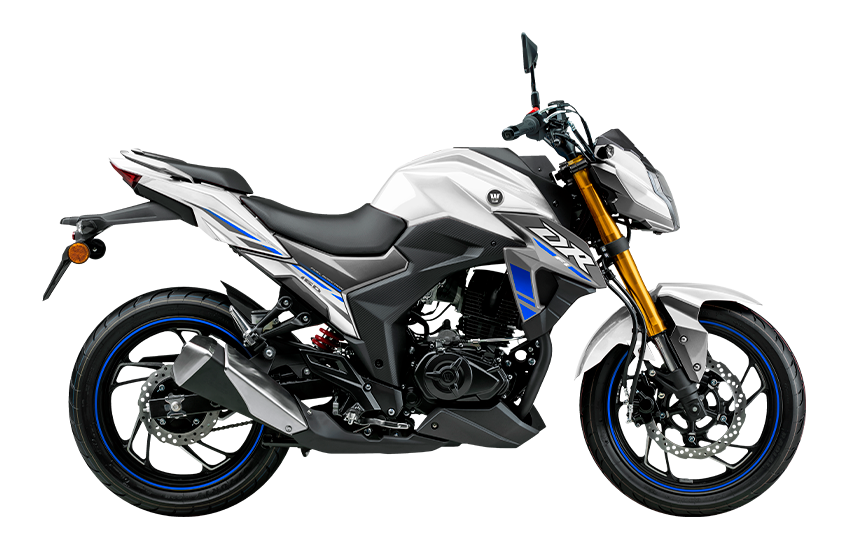
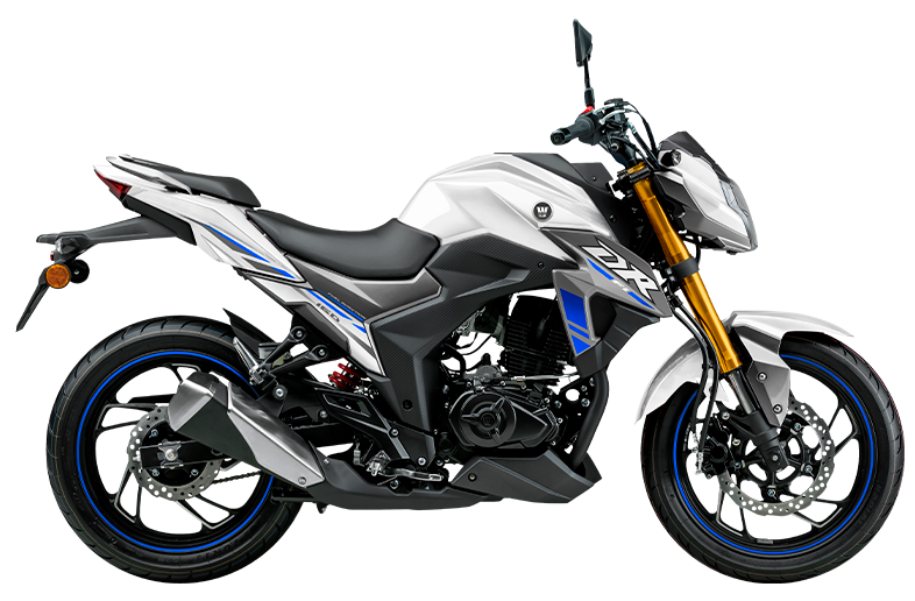
corrigindo proporção das imagens e adicionando efeito no texto

diff --git a/src/components/MainHeroCarrossel/MainHeroCarrossel.jsx b/src/components/MainHeroCarrossel/MainHeroCarrossel.jsx
@@ -11,14 +11,12 @@ export default function MainHeroCarrossel() {
     const infosMotosCarrossel = [
        {
             url: imgFazer150,
-            widthImg: '720px',
             nomeMoto: 'Fazer 150',
             corTexto: '#5e5e5e', 
             bgColor: 'radial-gradient(circle, rgba(58, 58, 58, 1) 0%, rgb(0, 0, 0) 100%)'
         },
         {
             url: imgNs160,
-            widthImg: '690px',
             nomeMoto: 'BAJAJ NS 160',
             corTexto: '#9e2427', 
             bgColor: 'radial-gradient(circle, rgb(98, 26, 27) 0%, rgb(0, 0, 0) 100%)'
@@ -26,14 +24,12 @@ export default function MainHeroCarrossel() {
         {
             url: imgCg160,
             nomeMoto: 'CG 160 TITAN',
-            widthImg: '900px',
             corTexto: '#dc6308', 
             bgColor: 'radial-gradient(circle, rgb(113, 58, 23) 0%, rgb(0, 0, 0) 100%)'
         },
         {
             url: imgDr160s,
             nomeMoto: 'Dr 160s haojue',
-            widthImg: '750px',
             corTexto: '#b0b0b0', 
             bgColor: 'radial-gradient(circle, rgb(108, 108, 108) 0%, rgba(0, 0, 0, 1) 100%)'
         }
@@ -81,12 +77,13 @@ export default function MainHeroCarrossel() {
                 className={`${styles.textoCarrossel} ${styles[`animacaoTexto-${animacao}-${direcao}`]}`}>
                 {infosMotosCarrossel[indexAtual].nomeMoto}
             </p>
-            <img
+            <a href="#">
+                <img
                 src={infosMotosCarrossel[indexAtual].url}
-                style={{ width: infosMotosCarrossel[indexAtual].widthImg }}
                 className={`${styles.imagemMotoCarrossel} ${styles[`${animacao}-${direcao}`]}`}
                 alt="foto da moto"
             />
+            </a>
             <PosicaoItensCarrossel
                 passarSlide={nextSlide}
                 voltarSlide={prevSlide}

diff --git a/src/components/MainHeroCarrossel/MainHeroCarrossel.module.scss b/src/components/MainHeroCarrossel/MainHeroCarrossel.module.scss
@@ -28,11 +28,16 @@
         text-align: center;
         max-width: 95%;
         margin: 0 auto;
-        -webkit-box-reflect: below .3em linear-gradient(to bottom, transparent, rgba(255,255,255,0.2));
+        -webkit-box-reflect: below .3em linear-gradient(to bottom, transparent, rgba(255, 255, 255, 0.082));
+    }
+
+    a {
+        text-align: center;
     }
 
     img {
-        max-width: 90%;
+        width: 90%;
+        max-width: 600px;
         transform: rotate(2deg) translateY(-20px);
         margin-bottom: 2em;
         filter: drop-shadow(0 0 10px rgba(0, 0, 0, 0.575));
@@ -130,45 +135,19 @@
 
 
 
-@media screen and (max-width: 1700px) {
-    .articleMainHeroCarrossel {
-        p {
-            font-size: 11em;
-        }
-    }
-}
-@media screen and (max-width: 1450px) {
-    .articleMainHeroCarrossel {
-        p {
-            font-size: 10em;
-        }
-    }
-}
+// media query 
+
 @media screen and (max-width: 1366px) {
-    .articleMainHeroCarrossel {
-        p {
-            font-size: 9em;
-        }
+  .articleMainHeroCarrossel {
+    p {
+      font-size: 8em;
     }
+  }
 }
-@media screen and (max-width: 1200px) {
-    .articleMainHeroCarrossel {
-        p {
-            font-size: 8em;
-        }
+@media screen and (max-width: 425px) {
+  .articleMainHeroCarrossel {
+    p {
+      font-size: 5em;
     }
-}
-@media screen and (max-width: 1050px) {
-    .articleMainHeroCarrossel {
-        p {
-            font-size: 7em;
-        }
-    }
-}
-@media screen and (max-width: 950px) {
-    .articleMainHeroCarrossel {
-        p {
-            font-size: 6em;
-        }
-    }
+  }
 }

diff --git a/src/components/PosicaoItensCarrossel/PosicaoItensCarrossel.module.scss b/src/components/PosicaoItensCarrossel/PosicaoItensCarrossel.module.scss
@@ -55,8 +55,21 @@
     }
 
 
-// @media screen and (max-width: 1366px) {
-//     .ContainerPositionSlider {
-//         bottom: 15vh;
-//     }
-// }
+@media screen and (max-width: 1366px) {
+    .ContainerPositionSlider {
+        width: 200px;
+        height: 35px;
+        bottom: 15vh;
+
+        button {
+            width: 20px;
+            height: 20px;
+            font-size: .5em;
+        }
+
+        .dotMudarSlide {
+            width: 20px;
+            height: 20px;
+        }
+    }
+}

diff --git a/vite.config.js b/vite.config.js
@@ -5,6 +5,6 @@ import react from '@vitejs/plugin-react'
 export default defineConfig({
   plugins: [react()],
     server: {
-    host: true // Isso permite acesso via IP local
-  }
+    host: true   
+  } 
 })
